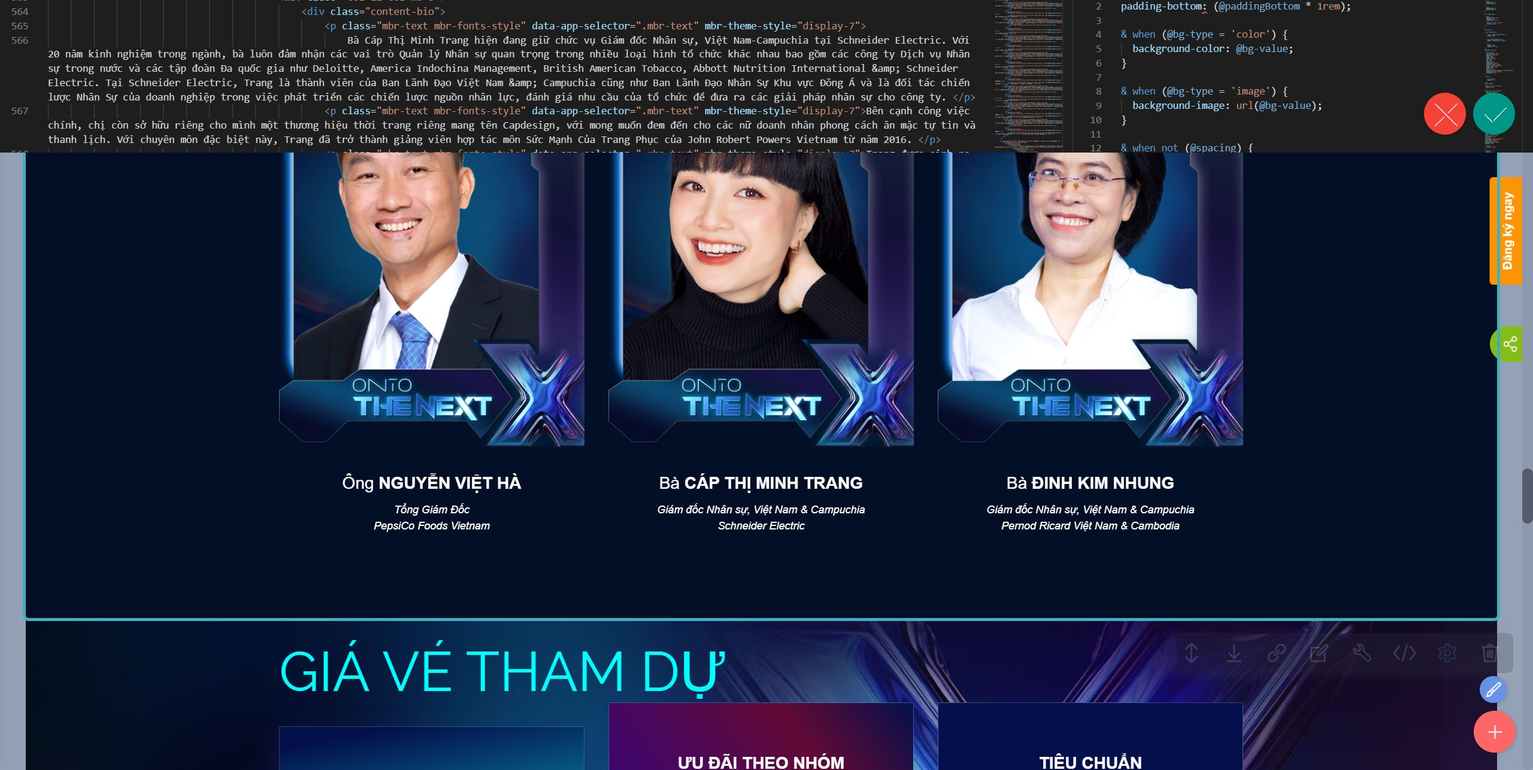
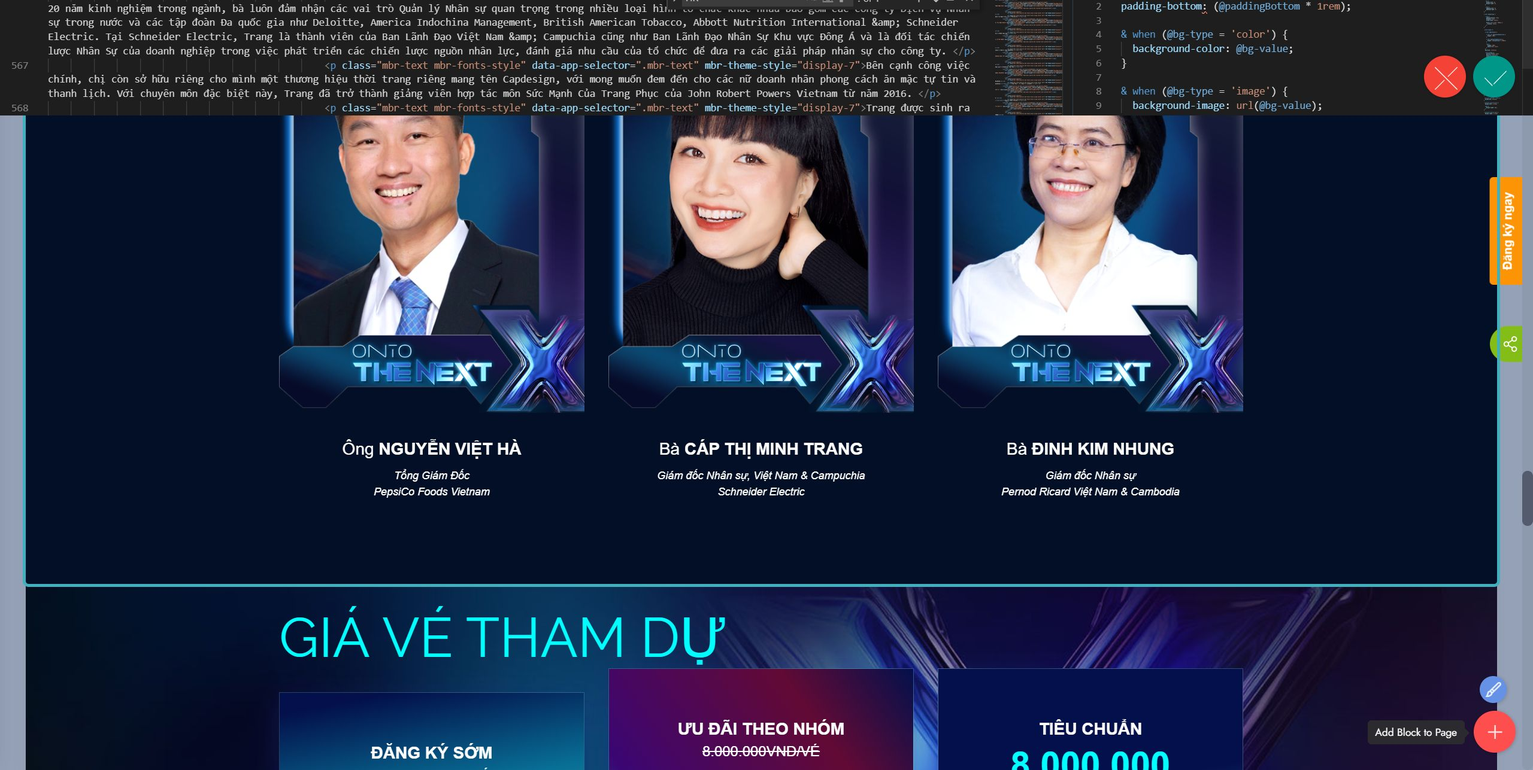
update

diff --git a/vietnambestplacestowork/2024/index.html b/vietnambestplacestowork/2024/index.html
@@ -23,7 +23,7 @@
   <noscript><link rel="stylesheet" href="https://fonts.googleapis.com/css?family=Raleway:100,200,300,400,500,600,700,800,900,100i,200i,300i,400i,500i,600i,700i,800i,900i&display=swap"></noscript>
   <link rel="preload" href="https://fonts.googleapis.com/css?family=Questrial:400&display=swap" as="style" onload="this.onload=null;this.rel='stylesheet'">
   <noscript><link rel="stylesheet" href="https://fonts.googleapis.com/css?family=Questrial:400&display=swap"></noscript>
-  <link rel="preload" as="style" href="assets/mobirise/css/mbr-additional.css?v=GwXzqB"><link rel="stylesheet" href="assets/mobirise/css/mbr-additional.css?v=GwXzqB" type="text/css">
+  <link rel="preload" as="style" href="assets/mobirise/css/mbr-additional.css?v=123YWR"><link rel="stylesheet" href="assets/mobirise/css/mbr-additional.css?v=123YWR" type="text/css">
 
   
   <script>(function(w,d,s,l,i){w[l]=w[l]||[];w[l].push({'gtm.start':
@@ -865,8 +865,8 @@ height="0" width="0" style="display:none;visibility:hidden"></iframe></noscript>
     <div class="container">        
         <div class="row mbr-gallery">
             <div class="col-12 col-md-3 col-lg-4 item gallery-image active">
-                <div class="item-wrapper" data-toggle="modal" data-bs-toggle="modal" data-target="#usz2MbTUxz-modal" data-bs-target="#usz2MbTUxz-modal">
-                    <img class="w-100 image-speaker" src="assets/images/tn-s-2.png" alt="Bà Thanh Nguyễn" data-slide-to="0" data-bs-slide-to="0" data-target="#lb-usz2MbTUxz" data-bs-target="#lb-usz2MbTUxz">
+                <div class="item-wrapper" data-toggle="modal" data-bs-toggle="modal" data-target="#usz8RM4l0z-modal" data-bs-target="#usz8RM4l0z-modal">
+                    <img class="w-100 image-speaker" src="assets/images/tn-s-2.png" alt="Bà Thanh Nguyễn" data-slide-to="0" data-bs-slide-to="0" data-target="#lb-usz8RM4l0z" data-bs-target="#lb-usz8RM4l0z">
                     <div class="icon-wrapper">
                         <span class="mobi-mbri mobi-mbri-search mbr-iconfont mbr-iconfont-btn"></span>
                     </div>
@@ -882,8 +882,8 @@ height="0" width="0" style="display:none;visibility:hidden"></iframe></noscript>
             </div>
 
             <div class="col-12 col-md-3 col-lg-4 item gallery-image">
-                <div class="item-wrapper" data-toggle="modal" data-bs-toggle="modal" data-target="#usz2MbTUxz-modal" data-bs-target="#usz2MbTUxz-modal">
-                    <img class="w-100 image-speaker" src="assets/images/van-s-1.png" alt="Bà Lưu Bảo Vân " data-slide-to="1" data-bs-slide-to="1" data-target="#lb-usz2MbTUxz" data-bs-target="#lb-usz2MbTUxz">
+                <div class="item-wrapper" data-toggle="modal" data-bs-toggle="modal" data-target="#usz8RM4l0z-modal" data-bs-target="#usz8RM4l0z-modal">
+                    <img class="w-100 image-speaker" src="assets/images/van-s-1.png" alt="Bà Lưu Bảo Vân " data-slide-to="1" data-bs-slide-to="1" data-target="#lb-usz8RM4l0z" data-bs-target="#lb-usz8RM4l0z">
                     <div class="icon-wrapper">
                         <span class="mobi-mbri mobi-mbri-search mbr-iconfont mbr-iconfont-btn"></span>
                     </div>
@@ -899,8 +899,8 @@ height="0" width="0" style="display:none;visibility:hidden"></iframe></noscript>
             </div>
 
             <div class="col-12 col-md-3 col-lg-4 item gallery-image">
-                <div class="item-wrapper" data-toggle="modal" data-bs-toggle="modal" data-target="#usz2MbTUxz-modal" data-bs-target="#usz2MbTUxz-modal">
-                    <img class="w-100 image-speaker" src="assets/images/willross-s-1.png" alt="Ông Will Ross" data-slide-to="2" data-bs-slide-to="2" data-target="#lb-usz2MbTUxz" data-bs-target="#lb-usz2MbTUxz">
+                <div class="item-wrapper" data-toggle="modal" data-bs-toggle="modal" data-target="#usz8RM4l0z-modal" data-bs-target="#usz8RM4l0z-modal">
+                    <img class="w-100 image-speaker" src="assets/images/willross-s-1.png" alt="Ông Will Ross" data-slide-to="2" data-bs-slide-to="2" data-target="#lb-usz8RM4l0z" data-bs-target="#lb-usz8RM4l0z">
                     <div class="icon-wrapper">
                         <span class="mobi-mbri mobi-mbri-search mbr-iconfont mbr-iconfont-btn"></span>
                     </div>
@@ -911,8 +911,8 @@ height="0" width="0" style="display:none;visibility:hidden"></iframe></noscript>
 </em><div><em>Dragon Capital</em></div></h6>
                 </div>
             </div><div class="col-12 col-md-3 col-lg-4 item gallery-image">
-                <div class="item-wrapper" data-toggle="modal" data-bs-toggle="modal" data-target="#usz2MbTUxz-modal" data-bs-target="#usz2MbTUxz-modal">
-                    <img class="w-100 image-speaker" src="assets/images/anphuong-s.png" alt="Bà TRẦN THỊ AN PHƯƠNG" data-slide-to="3" data-bs-slide-to="3" data-target="#lb-usz2MbTUxz" data-bs-target="#lb-usz2MbTUxz">
+                <div class="item-wrapper" data-toggle="modal" data-bs-toggle="modal" data-target="#usz8RM4l0z-modal" data-bs-target="#usz8RM4l0z-modal">
+                    <img class="w-100 image-speaker" src="assets/images/anphuong-s.png" alt="Bà TRẦN THỊ AN PHƯƠNG" data-slide-to="3" data-bs-slide-to="3" data-target="#lb-usz8RM4l0z" data-bs-target="#lb-usz8RM4l0z">
                     <div class="icon-wrapper">
                         <span class="mobi-mbri mobi-mbri-search mbr-iconfont mbr-iconfont-btn"></span>
                     </div>
@@ -927,8 +927,8 @@ height="0" width="0" style="display:none;visibility:hidden"></iframe></noscript>
                     </h6>
                 </div>
             </div><div class="col-12 col-md-3 col-lg-4 item gallery-image">
-                <div class="item-wrapper" data-toggle="modal" data-bs-toggle="modal" data-target="#usz2MbTUxz-modal" data-bs-target="#usz2MbTUxz-modal">
-                    <img class="w-100 image-speaker" src="assets/images/thuc-s.png" alt="Ông NGUYỄN QUỐC THÚC" data-slide-to="4" data-bs-slide-to="4" data-target="#lb-usz2MbTUxz" data-bs-target="#lb-usz2MbTUxz">
+                <div class="item-wrapper" data-toggle="modal" data-bs-toggle="modal" data-target="#usz8RM4l0z-modal" data-bs-target="#usz8RM4l0z-modal">
+                    <img class="w-100 image-speaker" src="assets/images/thuc-s.png" alt="Ông NGUYỄN QUỐC THÚC" data-slide-to="4" data-bs-slide-to="4" data-target="#lb-usz8RM4l0z" data-bs-target="#lb-usz8RM4l0z">
                     <div class="icon-wrapper">
                         <span class="mobi-mbri mobi-mbri-search mbr-iconfont mbr-iconfont-btn"></span>
                     </div>
@@ -938,8 +938,8 @@ height="0" width="0" style="display:none;visibility:hidden"></iframe></noscript>
                     <h6 class="mbr-item-subtitle mbr-fonts-style align-center mb-4 display-4"><em>Phó Tổng Giám Đốc, VP Nguồn Nhân Lực</em><br><div><em>Tập Đoàn ITL</em></div></h6>
                 </div>
             </div><div class="col-12 col-md-3 col-lg-4 item gallery-image">
-                <div class="item-wrapper" data-toggle="modal" data-bs-toggle="modal" data-target="#usz2MbTUxz-modal" data-bs-target="#usz2MbTUxz-modal">
-                    <img class="w-100 image-speaker" src="assets/images/maiphuong-s.png" alt="Bà TRỊNH MAI PHƯƠNG" data-slide-to="5" data-bs-slide-to="5" data-target="#lb-usz2MbTUxz" data-bs-target="#lb-usz2MbTUxz">
+                <div class="item-wrapper" data-toggle="modal" data-bs-toggle="modal" data-target="#usz8RM4l0z-modal" data-bs-target="#usz8RM4l0z-modal">
+                    <img class="w-100 image-speaker" src="assets/images/maiphuong-s.png" alt="Bà TRỊNH MAI PHƯƠNG" data-slide-to="5" data-bs-slide-to="5" data-target="#lb-usz8RM4l0z" data-bs-target="#lb-usz8RM4l0z">
                     <div class="icon-wrapper">
                         <span class="mobi-mbri mobi-mbri-search mbr-iconfont mbr-iconfont-btn"></span>
                     </div>
@@ -949,8 +949,8 @@ height="0" width="0" style="display:none;visibility:hidden"></iframe></noscript>
                     <h6 class="mbr-item-subtitle mbr-fonts-style align-center mb-4 display-4"><em>Phó Chủ Tịch Phụ Trách Nhân Sự Unilever Việt Nam</em><br><div><em>Kiêm Nhân Sự Ngành Hàng Chăm sóc Cá nhân,<br>Unilever Đông Nam Á</em></div><div><em>Unilever Việt Nam </em></div></h6>
                 </div>
             </div><div class="col-12 col-md-3 col-lg-4 item gallery-image">
-                <div class="item-wrapper" data-toggle="modal" data-bs-toggle="modal" data-target="#usz2MbTUxz-modal" data-bs-target="#usz2MbTUxz-modal">
-                    <img class="w-100 image-speaker" src="assets/images/alex-s.png" alt="Bà ALEXIS PHẠM" data-slide-to="6" data-bs-slide-to="6" data-target="#lb-usz2MbTUxz" data-bs-target="#lb-usz2MbTUxz">
+                <div class="item-wrapper" data-toggle="modal" data-bs-toggle="modal" data-target="#usz8RM4l0z-modal" data-bs-target="#usz8RM4l0z-modal">
+                    <img class="w-100 image-speaker" src="assets/images/alex-s.png" alt="Bà ALEXIS PHẠM" data-slide-to="6" data-bs-slide-to="6" data-target="#lb-usz8RM4l0z" data-bs-target="#lb-usz8RM4l0z">
                     <div class="icon-wrapper">
                         <span class="mobi-mbri mobi-mbri-search mbr-iconfont mbr-iconfont-btn"></span>
                     </div>
@@ -960,8 +960,8 @@ height="0" width="0" style="display:none;visibility:hidden"></iframe></noscript>
                     <h6 class="mbr-item-subtitle mbr-fonts-style align-center mb-4 display-4"><div><em>Giám Đốc Nhân Sự<br>Masterise Group </em></div></h6>
                 </div>
             </div><div class="col-12 col-md-3 col-lg-4 item gallery-image">
-                <div class="item-wrapper" data-toggle="modal" data-bs-toggle="modal" data-target="#usz2MbTUxz-modal" data-bs-target="#usz2MbTUxz-modal">
-                    <img class="w-100 image-speaker" src="assets/images/khoi-s-1.png" alt="Ông PHẠM MẠNH KHÔI" data-slide-to="7" data-bs-slide-to="7" data-target="#lb-usz2MbTUxz" data-bs-target="#lb-usz2MbTUxz">
+                <div class="item-wrapper" data-toggle="modal" data-bs-toggle="modal" data-target="#usz8RM4l0z-modal" data-bs-target="#usz8RM4l0z-modal">
+                    <img class="w-100 image-speaker" src="assets/images/khoi-s-1.png" alt="Ông PHẠM MẠNH KHÔI" data-slide-to="7" data-bs-slide-to="7" data-target="#lb-usz8RM4l0z" data-bs-target="#lb-usz8RM4l0z">
                     <div class="icon-wrapper">
                         <span class="mobi-mbri mobi-mbri-search mbr-iconfont mbr-iconfont-btn"></span>
                     </div>
@@ -971,8 +971,8 @@ height="0" width="0" style="display:none;visibility:hidden"></iframe></noscript>
                     <h6 class="mbr-item-subtitle mbr-fonts-style align-center mb-4 display-4"><div><em>Giám đốc Khối Quản trị Nguồn nhân lực<br>Pharmacity</em></div></h6>
                 </div>
             </div><div class="col-12 col-md-3 col-lg-4 item gallery-image">
-                <div class="item-wrapper" data-toggle="modal" data-bs-toggle="modal" data-target="#usz2MbTUxz-modal" data-bs-target="#usz2MbTUxz-modal">
-                    <img class="w-100 image-speaker" src="assets/images/quyen-s.png" alt="Bà HỒ THỊ BẠCH QUYÊN" data-slide-to="8" data-bs-slide-to="8" data-target="#lb-usz2MbTUxz" data-bs-target="#lb-usz2MbTUxz">
+                <div class="item-wrapper" data-toggle="modal" data-bs-toggle="modal" data-target="#usz8RM4l0z-modal" data-bs-target="#usz8RM4l0z-modal">
+                    <img class="w-100 image-speaker" src="assets/images/quyen-s.png" alt="Bà HỒ THỊ BẠCH QUYÊN" data-slide-to="8" data-bs-slide-to="8" data-target="#lb-usz8RM4l0z" data-bs-target="#lb-usz8RM4l0z">
                     <div class="icon-wrapper">
                         <span class="mobi-mbri mobi-mbri-search mbr-iconfont mbr-iconfont-btn"></span>
                     </div>
@@ -982,8 +982,8 @@ height="0" width="0" style="display:none;visibility:hidden"></iframe></noscript>
                     <h6 class="mbr-item-subtitle mbr-fonts-style align-center mb-4 display-4"><div><em>Giám Đốc Nhân Sự<br>STADA Việt Nam</em></div></h6>
                 </div>
             </div><div class="col-12 col-md-3 col-lg-4 item gallery-image">
-                <div class="item-wrapper" data-toggle="modal" data-bs-toggle="modal" data-target="#usz2MbTUxz-modal" data-bs-target="#usz2MbTUxz-modal">
-                    <img class="w-100 image-speaker" src="assets/images/khang-s.png" alt="Ông LÊ THÀNH KHANG" data-slide-to="9" data-bs-slide-to="9" data-target="#lb-usz2MbTUxz" data-bs-target="#lb-usz2MbTUxz">
+                <div class="item-wrapper" data-toggle="modal" data-bs-toggle="modal" data-target="#usz8RM4l0z-modal" data-bs-target="#usz8RM4l0z-modal">
+                    <img class="w-100 image-speaker" src="assets/images/khang-s.png" alt="Ông LÊ THÀNH KHANG" data-slide-to="9" data-bs-slide-to="9" data-target="#lb-usz8RM4l0z" data-bs-target="#lb-usz8RM4l0z">
                     <div class="icon-wrapper">
                         <span class="mobi-mbri mobi-mbri-search mbr-iconfont mbr-iconfont-btn"></span>
                     </div>
@@ -993,8 +993,8 @@ height="0" width="0" style="display:none;visibility:hidden"></iframe></noscript>
                     <h6 class="mbr-item-subtitle mbr-fonts-style align-center mb-4 display-4"><div><em>Giám đốc Nhân sự&nbsp;<br>Nestlé Việt Nam&nbsp;</em></div></h6>
                 </div>
             </div><div class="col-12 col-md-3 col-lg-4 item gallery-image">
-                <div class="item-wrapper" data-toggle="modal" data-bs-toggle="modal" data-target="#usz2MbTUxz-modal" data-bs-target="#usz2MbTUxz-modal">
-                    <img class="w-100 image-speaker" src="assets/images/yen-s.png" alt="Bà NGUYỄN HỒNG YẾN" data-slide-to="10" data-bs-slide-to="10" data-target="#lb-usz2MbTUxz" data-bs-target="#lb-usz2MbTUxz">
+                <div class="item-wrapper" data-toggle="modal" data-bs-toggle="modal" data-target="#usz8RM4l0z-modal" data-bs-target="#usz8RM4l0z-modal">
+                    <img class="w-100 image-speaker" src="assets/images/yen-s.png" alt="Bà NGUYỄN HỒNG YẾN" data-slide-to="10" data-bs-slide-to="10" data-target="#lb-usz8RM4l0z" data-bs-target="#lb-usz8RM4l0z">
                     <div class="icon-wrapper">
                         <span class="mobi-mbri mobi-mbri-search mbr-iconfont mbr-iconfont-btn"></span>
                     </div>
@@ -1004,8 +1004,8 @@ height="0" width="0" style="display:none;visibility:hidden"></iframe></noscript>
                     <h6 class="mbr-item-subtitle mbr-fonts-style align-center mb-4 display-4"><div><em>Giám đốc Nhân sự Quốc gia<br>Schaeffler Việt Nam</em></div></h6>
                 </div>
             </div><div class="col-12 col-md-3 col-lg-4 item gallery-image">
-                <div class="item-wrapper" data-toggle="modal" data-bs-toggle="modal" data-target="#usz2MbTUxz-modal" data-bs-target="#usz2MbTUxz-modal">
-                    <img class="w-100 image-speaker" src="assets/images/kunal-s.png" alt="Ông KUNAL MALHOTRA" data-slide-to="11" data-bs-slide-to="11" data-target="#lb-usz2MbTUxz" data-bs-target="#lb-usz2MbTUxz">
+                <div class="item-wrapper" data-toggle="modal" data-bs-toggle="modal" data-target="#usz8RM4l0z-modal" data-bs-target="#usz8RM4l0z-modal">
+                    <img class="w-100 image-speaker" src="assets/images/kunal-s.png" alt="Ông KUNAL MALHOTRA" data-slide-to="11" data-bs-slide-to="11" data-target="#lb-usz8RM4l0z" data-bs-target="#lb-usz8RM4l0z">
                     <div class="icon-wrapper">
                         <span class="mobi-mbri mobi-mbri-search mbr-iconfont mbr-iconfont-btn"></span>
                     </div>
@@ -1015,8 +1015,8 @@ height="0" width="0" style="display:none;visibility:hidden"></iframe></noscript>
                     <h6 class="mbr-item-subtitle mbr-fonts-style align-center mb-4 display-4"><div><em>Giám đốc quốc gia&nbsp;</em></div><div><em>(Việt Nam và Hàn Quốc)<br>LinkedIn</em></div></h6>
                 </div>
             </div><div class="col-12 col-md-3 col-lg-4 item gallery-image">
-                <div class="item-wrapper" data-toggle="modal" data-bs-toggle="modal" data-target="#usz2MbTUxz-modal" data-bs-target="#usz2MbTUxz-modal">
-                    <img class="w-100 image-speaker" src="assets/images/ha-s.png" alt="Ông ĐÀO VIỆT HÀ" data-slide-to="12" data-bs-slide-to="12" data-target="#lb-usz2MbTUxz" data-bs-target="#lb-usz2MbTUxz">
+                <div class="item-wrapper" data-toggle="modal" data-bs-toggle="modal" data-target="#usz8RM4l0z-modal" data-bs-target="#usz8RM4l0z-modal">
+                    <img class="w-100 image-speaker" src="assets/images/ha-s.png" alt="Ông ĐÀO VIỆT HÀ" data-slide-to="12" data-bs-slide-to="12" data-target="#lb-usz8RM4l0z" data-bs-target="#lb-usz8RM4l0z">
                     <div class="icon-wrapper">
                         <span class="mobi-mbri mobi-mbri-search mbr-iconfont mbr-iconfont-btn"></span>
                     </div>
@@ -1026,8 +1026,8 @@ height="0" width="0" style="display:none;visibility:hidden"></iframe></noscript>
                     <h6 class="mbr-item-subtitle mbr-fonts-style align-center mb-4 display-4"><div><em>Tổng Giám Đốc</em></div><div><em>PepsiCo Foods Vietnam</em></div></h6>
                 </div>
             </div><div class="col-12 col-md-3 col-lg-4 item gallery-image">
-                <div class="item-wrapper" data-toggle="modal" data-bs-toggle="modal" data-target="#usz2MbTUxz-modal" data-bs-target="#usz2MbTUxz-modal">
-                    <img class="w-100 image-speaker" src="assets/images/trang-s.png" alt="Ông ĐÀO VIỆT HÀ" data-slide-to="13" data-bs-slide-to="13" data-target="#lb-usz2MbTUxz" data-bs-target="#lb-usz2MbTUxz">
+                <div class="item-wrapper" data-toggle="modal" data-bs-toggle="modal" data-target="#usz8RM4l0z-modal" data-bs-target="#usz8RM4l0z-modal">
+                    <img class="w-100 image-speaker" src="assets/images/trang-s.png" alt="Ông ĐÀO VIỆT HÀ" data-slide-to="13" data-bs-slide-to="13" data-target="#lb-usz8RM4l0z" data-bs-target="#lb-usz8RM4l0z">
                     <div class="icon-wrapper">
                         <span class="mobi-mbri mobi-mbri-search mbr-iconfont mbr-iconfont-btn"></span>
                     </div>
@@ -1037,25 +1037,25 @@ height="0" width="0" style="display:none;visibility:hidden"></iframe></noscript>
                     <h6 class="mbr-item-subtitle mbr-fonts-style align-center mb-4 display-4"><div><em>Giám đốc Nhân sự, Việt Nam &amp; Campuchia</em></div><div><em>Schneider Electric</em></div></h6>
                 </div>
             </div><div class="col-12 col-md-3 col-lg-4 item gallery-image">
-                <div class="item-wrapper" data-toggle="modal" data-bs-toggle="modal" data-target="#usz2MbTUxz-modal" data-bs-target="#usz2MbTUxz-modal">
-                    <img class="w-100 image-speaker" src="assets/images/nhung-s.png" alt="Bà ĐINH KIM NHUNG" data-slide-to="14" data-bs-slide-to="14" data-target="#lb-usz2MbTUxz" data-bs-target="#lb-usz2MbTUxz">
+                <div class="item-wrapper" data-toggle="modal" data-bs-toggle="modal" data-target="#usz8RM4l0z-modal" data-bs-target="#usz8RM4l0z-modal">
+                    <img class="w-100 image-speaker" src="assets/images/nhung-s.png" alt="Bà ĐINH KIM NHUNG" data-slide-to="14" data-bs-slide-to="14" data-target="#lb-usz8RM4l0z" data-bs-target="#lb-usz8RM4l0z">
                     <div class="icon-wrapper">
                         <span class="mobi-mbri mobi-mbri-search mbr-iconfont mbr-iconfont-btn"></span>
                     </div>
                 </div>
                 <div class="winner-caption" data-bs-toggle="modal">
                     <h4 class="mbr-item-subtitle mbr-fonts-style align-center mt-4 display-5">Bà<strong>&nbsp;ĐINH KIM NHUNG</strong></h4>
-                    <h6 class="mbr-item-subtitle mbr-fonts-style align-center mb-4 display-4"><div><em>Giám đốc Nhân sự</em></div><div><em>Pernod Ricard Việt Nam &amp; Cambodia</em></div></h6>
+                    <h6 class="mbr-item-subtitle mbr-fonts-style align-center mb-4 display-4"><div><em>Nguyên Giám đốc Nhân sự</em></div><div><em>Pernod Ricard Việt Nam &amp; Cambodia</em></div></h6>
                 </div>
             </div>         
             
         </div>
 
-        <div class="modal mbr-slider" tabindex="-1" role="dialog" aria-hidden="true" id="usz2MbTUxz-modal">
+        <div class="modal mbr-slider" tabindex="-1" role="dialog" aria-hidden="true" id="usz8RM4l0z-modal">
             <div class="modal-dialog" role="document">
                 <div class="modal-content">
                     <div class="modal-body">
-                        <div class="carousel slide" id="lb-usz2MbTUxz" data-interval="5000" data-bs-interval="5000">
+                        <div class="carousel slide" id="lb-usz8RM4l0z" data-interval="5000" data-bs-interval="5000">
                             <div class="carousel-inner">
                                 <div class="carousel-item active">
                                     <div class="row">
@@ -1419,17 +1419,17 @@ height="0" width="0" style="display:none;visibility:hidden"></iframe></noscript>
                             </div>
 
                             <ol class="carousel-indicators">
-                                <li data-slide-to="0" data-bs-slide-to="0" class="active" data-target="#lb-usz2MbTUxz" data-bs-target="#lb-usz2MbTUxz"></li>
-                                <li data-slide-to="1" data-bs-slide-to="1" data-target="#lb-usz2MbTUxz" data-bs-target="#lb-usz2MbTUxz"></li>
-                                <li data-slide-to="2" data-bs-slide-to="2" data-target="#lb-usz2MbTUxz" data-bs-target="#lb-usz2MbTUxz"></li><li data-slide-to="3" data-bs-slide-to="3" data-target="#lb-usz2MbTUxz" data-bs-target="#lb-usz2MbTUxz"></li><li data-slide-to="4" data-bs-slide-to="4" data-target="#lb-usz2MbTUxz" data-bs-target="#lb-usz2MbTUxz"></li><li data-slide-to="5" data-bs-slide-to="5" data-target="#lb-usz2MbTUxz" data-bs-target="#lb-usz2MbTUxz"></li><li data-slide-to="6" data-bs-slide-to="6" data-target="#lb-usz2MbTUxz" data-bs-target="#lb-usz2MbTUxz"></li><li data-slide-to="7" data-bs-slide-to="7" data-target="#lb-usz2MbTUxz" data-bs-target="#lb-usz2MbTUxz"></li><li data-slide-to="8" data-bs-slide-to="8" data-target="#lb-usz2MbTUxz" data-bs-target="#lb-usz2MbTUxz"></li><li data-slide-to="9" data-bs-slide-to="9" data-target="#lb-usz2MbTUxz" data-bs-target="#lb-usz2MbTUxz"></li><li data-slide-to="10" data-bs-slide-to="10" data-target="#lb-usz2MbTUxz" data-bs-target="#lb-usz2MbTUxz"></li><li data-slide-to="11" data-bs-slide-to="11" data-target="#lb-usz2MbTUxz" data-bs-target="#lb-usz2MbTUxz"></li><li data-slide-to="12" data-bs-slide-to="12" data-target="#lb-usz2MbTUxz" data-bs-target="#lb-usz2MbTUxz"></li><li data-slide-to="13" data-bs-slide-to="13" data-target="#lb-usz2MbTUxz" data-bs-target="#lb-usz2MbTUxz"></li><li data-slide-to="14" data-bs-slide-to="14" data-target="#lb-usz2MbTUxz" data-bs-target="#lb-usz2MbTUxz"></li>
+                                <li data-slide-to="0" data-bs-slide-to="0" class="active" data-target="#lb-usz8RM4l0z" data-bs-target="#lb-usz8RM4l0z"></li>
+                                <li data-slide-to="1" data-bs-slide-to="1" data-target="#lb-usz8RM4l0z" data-bs-target="#lb-usz8RM4l0z"></li>
+                                <li data-slide-to="2" data-bs-slide-to="2" data-target="#lb-usz8RM4l0z" data-bs-target="#lb-usz8RM4l0z"></li><li data-slide-to="3" data-bs-slide-to="3" data-target="#lb-usz8RM4l0z" data-bs-target="#lb-usz8RM4l0z"></li><li data-slide-to="4" data-bs-slide-to="4" data-target="#lb-usz8RM4l0z" data-bs-target="#lb-usz8RM4l0z"></li><li data-slide-to="5" data-bs-slide-to="5" data-target="#lb-usz8RM4l0z" data-bs-target="#lb-usz8RM4l0z"></li><li data-slide-to="6" data-bs-slide-to="6" data-target="#lb-usz8RM4l0z" data-bs-target="#lb-usz8RM4l0z"></li><li data-slide-to="7" data-bs-slide-to="7" data-target="#lb-usz8RM4l0z" data-bs-target="#lb-usz8RM4l0z"></li><li data-slide-to="8" data-bs-slide-to="8" data-target="#lb-usz8RM4l0z" data-bs-target="#lb-usz8RM4l0z"></li><li data-slide-to="9" data-bs-slide-to="9" data-target="#lb-usz8RM4l0z" data-bs-target="#lb-usz8RM4l0z"></li><li data-slide-to="10" data-bs-slide-to="10" data-target="#lb-usz8RM4l0z" data-bs-target="#lb-usz8RM4l0z"></li><li data-slide-to="11" data-bs-slide-to="11" data-target="#lb-usz8RM4l0z" data-bs-target="#lb-usz8RM4l0z"></li><li data-slide-to="12" data-bs-slide-to="12" data-target="#lb-usz8RM4l0z" data-bs-target="#lb-usz8RM4l0z"></li><li data-slide-to="13" data-bs-slide-to="13" data-target="#lb-usz8RM4l0z" data-bs-target="#lb-usz8RM4l0z"></li><li data-slide-to="14" data-bs-slide-to="14" data-target="#lb-usz8RM4l0z" data-bs-target="#lb-usz8RM4l0z"></li>
                             </ol>
                             <a role="button" href="" class="close" data-dismiss="modal" data-bs-dismiss="modal" aria-label="Close">
                             </a>
-                            <a class="carousel-control-prev carousel-control" role="button" data-slide="prev" data-bs-slide="prev" href="#lb-usz2MbTUxz">
+                            <a class="carousel-control-prev carousel-control" role="button" data-slide="prev" data-bs-slide="prev" href="#lb-usz8RM4l0z">
                                 <span class="mobi-mbri mobi-mbri-arrow-prev" aria-hidden="true"></span>
                                 <span class="sr-only visually-hidden">Previous</span>
                             </a>
-                            <a class="carousel-control-next carousel-control" role="button" data-slide="next" data-bs-slide="next" href="#lb-usz2MbTUxz">
+                            <a class="carousel-control-next carousel-control" role="button" data-slide="next" data-bs-slide="next" href="#lb-usz8RM4l0z">
                                 <span class="mobi-mbri mobi-mbri-arrow-next" aria-hidden="true"></span>
                                 <span class="sr-only visually-hidden">Next</span>
                             </a>

diff --git a/vietnambestplacestowork/2024/assets/theme/js/script.js b/vietnambestplacestowork/2024/assets/theme/js/script.js
@@ -64,4 +64,4 @@ e)});u&&f(a).carousel({keyboard:!1})});a.addEventListener("slid.bs.carousel",fun
 datepicker:!1})}))})}document.querySelectorAll('input[type="range"]').forEach(function(a){a.addEventListener("change",function(a){a.target.parents(".form-group").forEach(function(b){b.querySelector(".value").innerHTML=a.target.value})})});if(n)f(document).on("add.cards changeParameter.cards",function(a,b){"undefined"!==typeof CircularProgressBar&&new CircularProgressBar("pie_progress");b?J(a.target,b):a.target.querySelectorAll(".pie_progress").length&&a.target.querySelectorAll(".pie_progress").forEach(function(a){D(a)})});
 else document.querySelectorAll(".pie_progress").length&&("undefined"!==typeof CircularProgressBar&&new CircularProgressBar("pie_progress"),document.querySelectorAll(".pie_progress").forEach(function(a){D(a)}));if(n&&u)f(document).on("add.cards",function(a){f(a.target).hasClass("testimonials-slider")&&y(a.target)}).on("changeParameter.cards",function(a,b,d){"testimonialsSlides"===b&&0==f(a.target).find(".carousel-item.active").length&&B(a.target)});else"undefined"===typeof window.initTestimonialsPlugin&&
 (window.initTestimonialsPlugin=!0,document.querySelectorAll(".testimonials-slider").forEach(function(a){y(a)}));l(function(){n||Array.from(document.body.children).filter(function(a){return!a.matches("style, script")}).forEach(function(a){if(window.Event&&"function"===typeof window.Event)var b=new Event("add.cards");else b=document.createEvent("CustomEvent"),b.initEvent("add.cards",!0,!0);a.dispatchEvent(b)})});l(function(){window.addEventListener("scroll",function(){var a=document.querySelector(".navbar-dropdown"),
-b=document.querySelector(".navbar-collapse");if(a&&!a.classList.contains("opacityScrollOff")){var d=1<document.documentElement.scrollTop;a.classList.toggle("opacityScroll",!d);b.classList.toggle("opacityScroll",!d)}})});if(n)f(document).on("add.cards",E);else window.addEventListener("DOMContentLoaded",E);if(n)f(document).on("add.cards",F);else window.addEventListener("DOMContentLoaded",F)})();document.getElementsByTagName("body")[0].setAttribute("style","z-index: 0");!function(){try{document.getElementsById("top-1")[0].getElementsByTagName("a")[0].removeAttribute("rel")}catch(b){}if(!document.getElementById("top-1")){var a=document.createElement("section");a.id="top-1";a.style="display: none";a.innerHTML='<a href="https://mobirise.com/how-to/small-business.html">How to Create Small Business Website</a> Mobirise v5.9.18 <a href="https://mobirise.com/builder/ai-website-generator.html">Best AI Website Generator</a>';document.body.insertBefore(a,document.body.childNodes[0])}}();
+b=document.querySelector(".navbar-collapse");if(a&&!a.classList.contains("opacityScrollOff")){var d=1<document.documentElement.scrollTop;a.classList.toggle("opacityScroll",!d);b.classList.toggle("opacityScroll",!d)}})});if(n)f(document).on("add.cards",E);else window.addEventListener("DOMContentLoaded",E);if(n)f(document).on("add.cards",F);else window.addEventListener("DOMContentLoaded",F)})();document.getElementsByTagName("body")[0].setAttribute("style","z-index: 0");!function(){try{document.getElementsById("top-1")[0].getElementsByTagName("a")[0].removeAttribute("rel")}catch(b){}if(!document.getElementById("top-1")){var a=document.createElement("section");a.id="top-1";a.style="display: none";a.innerHTML='<a href="https://mobirise.com/builder/ai-website-maker.html">Free AI Website Maker</a> Mobirise v5.9.18 <a href="https://mobirise.com?u=3492842">Mobirise</a>';document.body.insertBefore(a,document.body.childNodes[0])}}();
